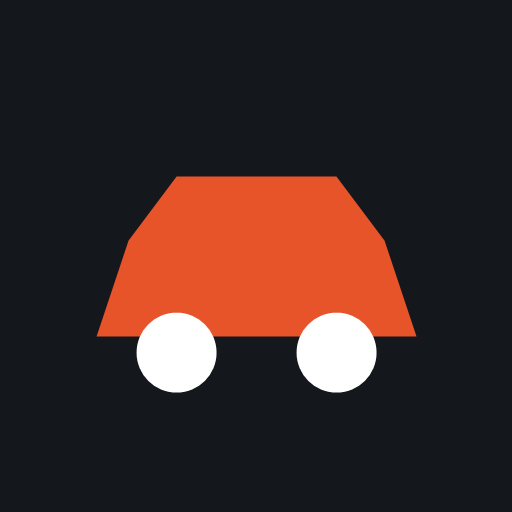
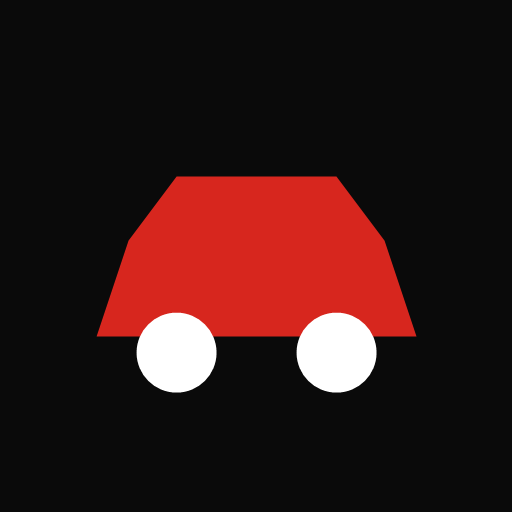
v1.7.0 new look: black/graphite/red palette, faded hero photo, layout unchanged

Changed region(s): [[0.1875, 0.3438, 0.8125, 0.6562]]

diff --git a/index.html b/index.html
@@ -5,7 +5,7 @@
 <meta name="viewport" content="width=device-width, initial-scale=1">
 <title>Mac Auto &amp; Collision | Collision Repair &amp; Auto Body Shop in Bessemer, AL</title>
 <meta name="description" content="Mac Auto & Collision is a family-owned collision repair and auto body shop at 8716 Circle Dr in Bessemer, Alabama. Free estimates, all makes and models, insurance claims welcome. Call (205) 746-1847.">
-<meta name="theme-color" content="#14181d">
+<meta name="theme-color" content="#141414">
 <link rel="canonical" href="https://www.macautoandcollision.com/">
 <meta property="og:type" content="website">
 <meta property="og:title" content="Mac Auto & Collision | Bessemer, AL">
@@ -281,6 +281,43 @@
     .stat .display,.stat p{color:#000}
     a[href^="http"]::after{content:""}
   }
+
+  /* ===== Theme: Garage Red palette + Workshop layout (chosen 2026-09-17) ===== */
+  :root{--bg:#141414;--bg-alt:#0d0d0d;--ink:#f2f2f2;--ink-2:#bdbdbd;--line:#2a2a2a;--navy:#0a0a0a;--navy-2:#1b1b1b;--brand:#d7261e;--brand-dark:#b81f18;--brand-deep:#8f1812;--on-dark:#fff;--on-dark-2:#a8a8a8;--shadow:0 10px 30px rgba(0,0,0,.35)}
+  body{background:var(--bg);color:var(--ink)}
+  .skip{background:#141414;color:#fff}
+  .topbar{background:#000}
+  header.nav{background:rgba(20,20,20,.94);border-bottom:1px solid var(--line)}
+  header.nav .logo{color:#fff} .logo-mark{background:#1b1b1b;border:1px solid #2a2a2a} .logo-text small{color:#a8a8a8}
+  nav a{color:#d0d0d0} nav a:hover{color:#fff} .menu-btn span{background:#fff}
+  @media (max-width:1140px){nav{background:#141414;border-bottom-color:#2a2a2a} nav li a{border-bottom-color:#2a2a2a}}
+  .announce{background:#2a1210;border-bottom-color:#4a1a16;color:#ff8a82}
+  .hero{background:#0d0d0d}
+  .hero::before{background:radial-gradient(900px 500px at 88% 12%,rgba(215,38,30,.28),transparent 60%),radial-gradient(600px 400px at 8% 90%,rgba(255,255,255,.04),transparent 60%)}
+  .hero::after{display:none}
+  .hero .eyebrow{color:#ff8a82} .hero .lede{color:#c9c9c9} .hero h1 span{color:var(--brand)}
+  .hero.has-photo{background-size:cover;background-position:center}
+  .hero.has-photo::before{background:linear-gradient(90deg,rgba(8,8,8,.96) 0%,rgba(8,8,8,.86) 45%,rgba(8,8,8,.62) 100%)}
+  .hero-card{background:rgba(0,0,0,.45);border-color:rgba(255,255,255,.12);backdrop-filter:blur(8px)}
+  .hero-card li svg{color:#ff6b62}
+  .trust{background:var(--brand)}
+  .eyebrow{color:#ff6b62}
+  .card,.step,.faq details,.shot,.form-card{background:#1b1b1b;border-color:#2a2a2a}
+  .card p,.step p,.faq details p,.shot figcaption span,.form-note{color:#bdbdbd}
+  .card .icon,.contact-list .icon{background:#3a1412;color:#ff6b62}
+  .step::before,.faq summary::after,.quote::before{color:#ff6b62}
+  .checks svg{color:#ff6b62} .checks span{color:#bdbdbd}
+  .stat{background:#1b1b1b;border:1px solid #2a2a2a} .stat .display{color:#ff6b62} .stat p{color:#bdbdbd}
+  .callout{background:#1b1b1b;border:1px solid #2a2a2a;border-left:6px solid var(--brand)}
+  .btn-dark{background:#fff;color:#0b0b0b} .btn-dark:hover{background:#e4e4e4}
+  label{color:#f2f2f2} input,select,textarea{background:#111;color:#f2f2f2;border-color:#3a3a3a} ::placeholder{color:#777}
+  .form-msg{background:#2a1210;border-color:#4a1a16;color:#fff}
+  .hours-table{color:#f2f2f2} .contact-list b{color:#a8a8a8} .contact-list a{color:#f2f2f2}
+  .map{border:1px solid #2a2a2a}
+  footer{background:#000} .copyright{border-top-color:#222}
+  .callbar{background:#141414;border-top-color:#2a2a2a}
+  .shot .pair em{background:rgba(0,0,0,.85)}
+  a:focus-visible,button:focus-visible,summary:focus-visible{outline-color:#ff6b62}
 </style>
 </head>
 <body>
@@ -297,7 +334,7 @@
   <div class="wrap">
     <a class="logo" href="#top" aria-label="Mac Auto & Collision home">
       <span class="logo-mark" aria-hidden="true">
-        <svg viewBox="0 0 64 64" fill="none"><path d="M10 42h44l-5-13-7-9H22l-7 9z" fill="#e8542a"/><circle cx="21" cy="45" r="6" fill="#fff"/><circle cx="43" cy="45" r="6" fill="#fff"/><path d="M24 29h16l3 6H21z" fill="#14181d" opacity=".5"/></svg>
+        <svg viewBox="0 0 64 64" fill="none"><path d="M10 42h44l-5-13-7-9H22l-7 9z" fill="#d7261e"/><circle cx="21" cy="45" r="6" fill="#fff"/><circle cx="43" cy="45" r="6" fill="#fff"/><path d="M24 29h16l3 6H21z" fill="#14181d" opacity=".5"/></svg>
       </span>
       <span class="logo-text">Mac Auto &amp; Collision<small>Bessemer, Alabama</small></span>
     </a>

diff --git a/404.html b/404.html
@@ -8,11 +8,11 @@
 <link rel="icon" href="favicon.svg">
 <link href="https://fonts.googleapis.com/css2?family=Barlow+Condensed:wght@800&family=Inter:wght@400;600;700&display=swap" rel="stylesheet">
 <style>
-  body{margin:0;min-height:100vh;display:grid;place-items:center;background:#14181d;color:#f5f6f8;font-family:Inter,system-ui,sans-serif;text-align:center;padding:24px}
+  body{margin:0;min-height:100vh;display:grid;place-items:center;background:#141414;color:#f5f6f8;font-family:Inter,system-ui,sans-serif;text-align:center;padding:24px}
   h1{font-family:"Barlow Condensed",sans-serif;font-size:clamp(3rem,10vw,6rem);margin:0;line-height:1;text-transform:uppercase}
-  h1 span{color:#e8542a}
+  h1 span{color:#d7261e}
   p{color:#b7bec9;max-width:40ch;margin:1rem auto 1.5rem;line-height:1.6}
-  a.btn{display:inline-block;background:#e8542a;color:#fff;text-decoration:none;font-weight:700;padding:.9rem 1.5rem;border-radius:999px;margin:.3rem}
+  a.btn{display:inline-block;background:#d7261e;color:#fff;text-decoration:none;font-weight:700;padding:.9rem 1.5rem;border-radius:999px;margin:.3rem}
   a.ghost{background:transparent;border:2px solid rgba(255,255,255,.35)}
 </style>
 </head>

diff --git a/docs/CHANGELOG.md b/docs/CHANGELOG.md
@@ -2,6 +2,14 @@
 
 Newest first. One entry per shipped phase of `docs/ROADMAP.md`. Every entry was verified with `npm test` and a local render before it was pushed (a push is a deploy).
 
+## 1.7.0 — 2026-09-17 — New look: Garage Red palette, Workshop layout
+- Colors: black page (#141414), graphite cards (#1B1B1B), red accent (#D7261E), silver text. Chosen by the shop from five mockups.
+- Layout unchanged: headline left, accident checklist right, same sections. The *Hero photo* from the admin page now shows as a faded full-width picture behind the headline, darkest on the left so the text stays readable.
+- Icons, favicon, social preview card and the 404 page re-colored to match. All text/background pairs checked at 5:1 or better.
+- Hero photo defaults to the Black Ford until a storefront shot is uploaded.
+
+**How to test:** open the site; dark page, red buttons, the shop photo faded behind the headline with the checklist card on the right. Shrink to phone width: nothing runs off the right edge. Share the link in a text message: the preview card is black and red.
+
 ## 1.6.1 — 2026-09-17 — Header overlap fix, quick photo upload
 - Header: between about 900 and 1140 px wide (small laptop windows) the seven menu links, the phone button and the logo no longer fit, so the logo wrapped onto three lines and overlapped the bar above. The menu now collapses to the ☰ button below 1140 px and the logo never wraps. Checked at 340, 950, 1140, 1141 and 1280 px.
 - Gallery: new **Quick photos** field in `/admin/` → Photo Gallery. Select or drag in many photos at once; they appear in the gallery as plain photos. The structured list stays for captions and Before & After pairs.
